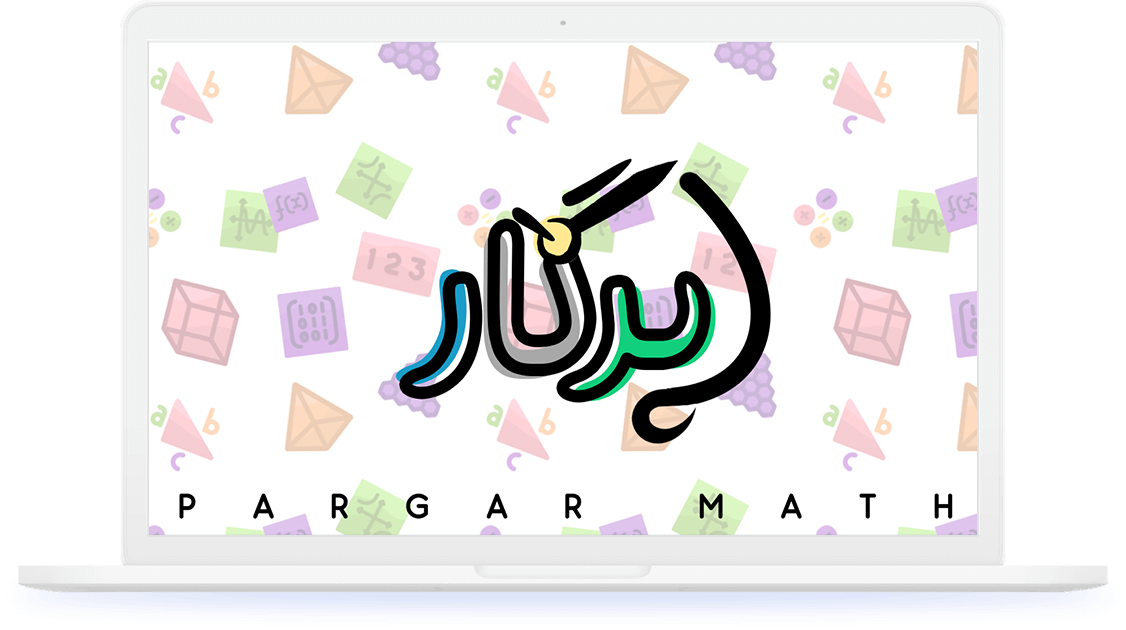
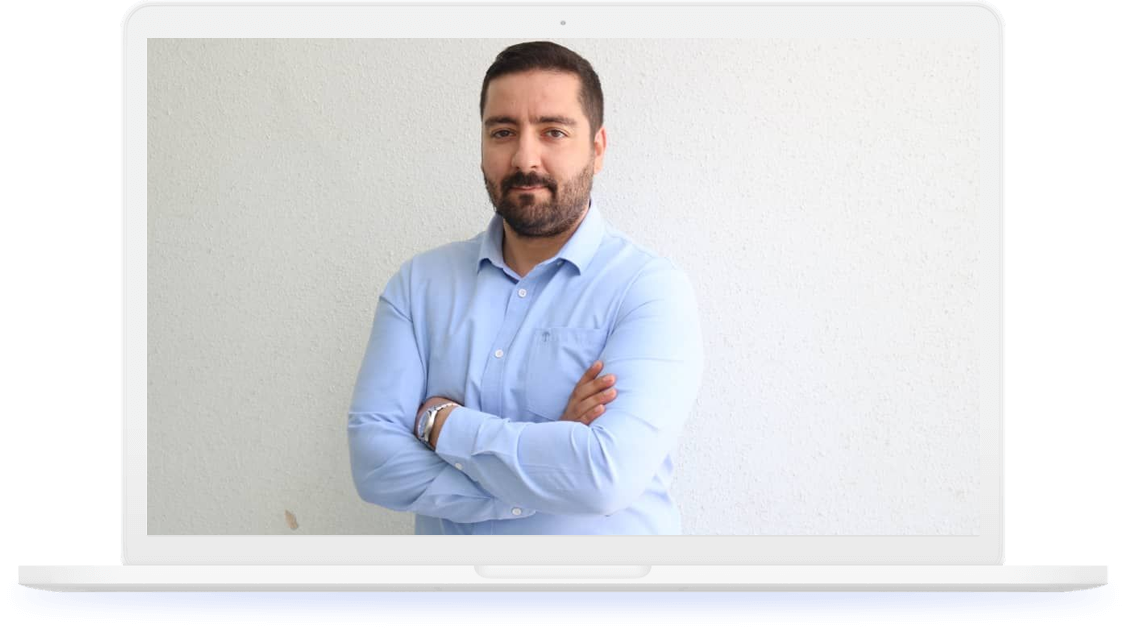
2

diff --git a/index.html b/index.html
@@ -130,14 +130,33 @@
                             <p class="header-sub-title wow fadeInUp h1 display-1" data-wow-duration="1.3s" data-wow-delay="0.2s">آزمون های آنلاین پرگار</p>
                             <p class="header-title wow fadeInUp h3" data-wow-duration="1.3s" data-wow-delay="0.5s">دیگه وقتشه شروع کنی!</p>
                             <p class="text wow fadeInUp" data-wow-duration="1.3s" data-wow-delay="0.8s">با پرگار خیالت از کیفیت سوالات آزمون راحته</p>
-                            <a href="#" class="main-btn wow fadeInUp" data-wow-duration="1.3s" data-wow-delay="1.1s">تو کمتر از 1 دقیقه ثبت نام کن!</a>
+							<br/>
+                            
                         </div> <!-- header hero content -->
                     </div>
                 </div> <!-- row -->
                 <div class="row">
-                    <div class="col-lg-12">
-                        <div class="header-hero-image text-center wow fadeIn" data-wow-duration="1.3s" data-wow-delay="1.4s">
+                    <div class="col-md-6">
+                        <div class="text-center wow fadeIn" data-wow-duration="1.3s" data-wow-delay="1.4s">
+							
                             <img src="assets/images/header-hero.png" alt="hero">
+							<p class="wow fadeInUp h1 text-white" data-wow-duration="1.3s" data-wow-delay="0.2s">مهندس حامد اسماعیلی</p>
+							<a href="#" class="main-btn wow fadeInUp" data-wow-duration="1.3s" data-wow-delay="1.1s">ثبت نام در آزمون های شیمی</a>
+							<br/>
+							<br/>
+							<a  class="main-btn" data-scroll-nav="0" href="shimi.pdf">برنامه آزمون های شیمی</a>
+                        </div> <!-- header hero image -->
+						<br/>
+                    </div>
+					<div class="col-md-6">
+                        <div class="text-center wow fadeIn" data-wow-duration="1.3s" data-wow-delay="1.4s">
+						
+                            <img src="assets/images/header-hero2.png" alt="hero">
+							<p class="wow fadeInUp h1" data-wow-duration="1.3s" data-wow-delay="0.2s">دکتر مهرداد عباسپور</p>
+							<a href="#" class="main-btn wow fadeInUp" data-wow-duration="1.3s" data-wow-delay="1.1s">ثبت نام در آزمون های ریاضی</a>
+							<br/>
+							<br/>
+							<a  class="main-btn" data-scroll-nav="0" href="shimi.pdf">برنامه آزمون های ریاضی</a>
                         </div> <!-- header hero image -->
                     </div>
                 </div> <!-- row -->

diff --git a/assets/css/style.css b/assets/css/style.css
@@ -134,7 +134,7 @@ p {
   -ms-user-select: none;
   user-select: none;
   padding: 0 25px;
-  font-size: 16px;
+  font-size: 25px;
   line-height: 48px;
   border-radius: 8px;
   border: 0;
